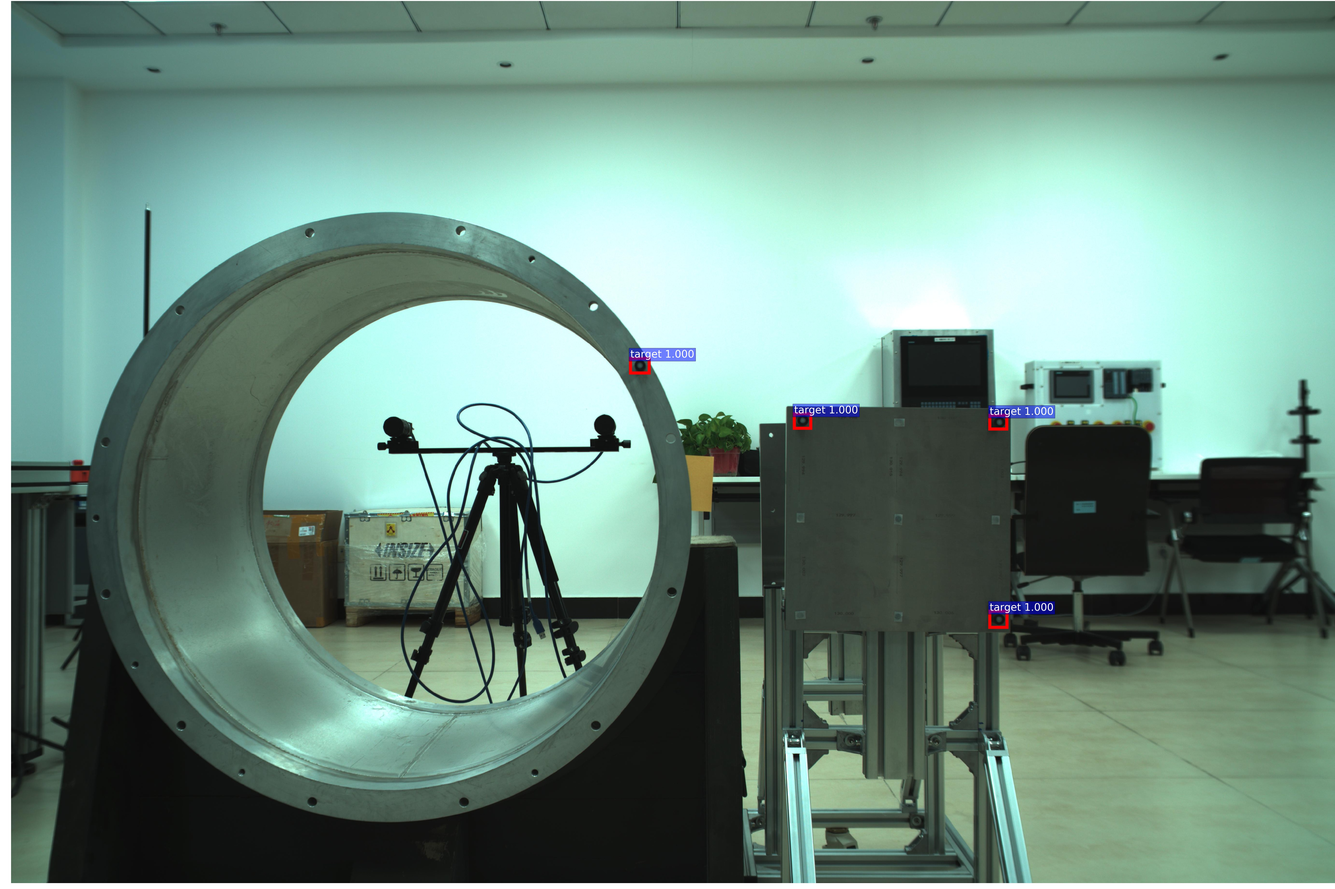
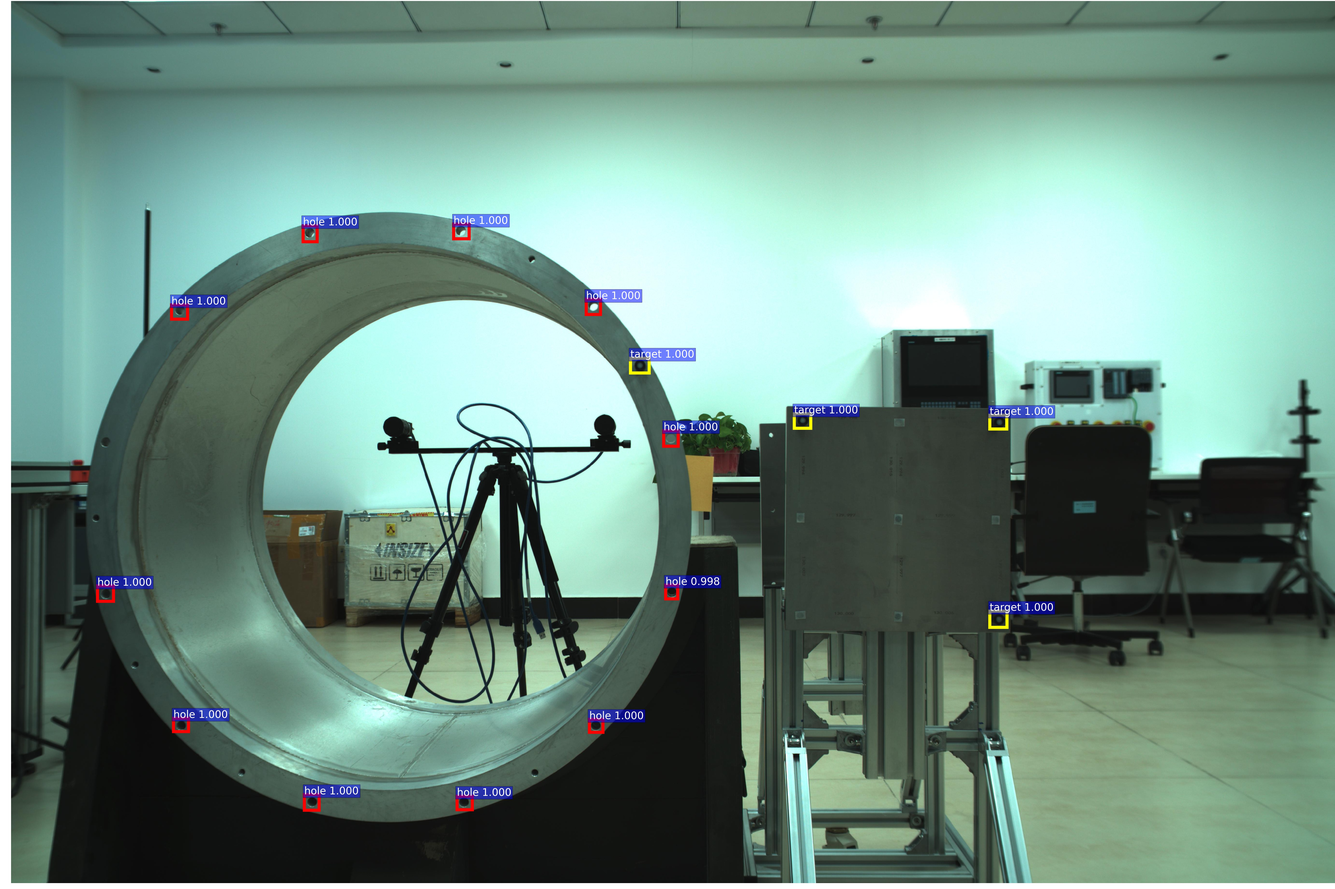
修改了图像检测显示效果，后面还需要修改位姿求解函数以达到演示效果

diff --git a/stereo_vision/testMeasure/utils.py b/stereo_vision/testMeasure/utils.py
@@ -61,6 +61,38 @@ def vis_detections(im, class_name, dets, thresh=0.5):
     #               'p({} | box) >= {:.1f}').format(class_name, class_name,
     #                                               thresh),
     #               fontsize=14)
+    # plt.axis('off')
+    # plt.tight_layout()
+    # plt.draw()
+    return coordinates_list,ax
+
+
+def vis_detections_target(ax, class_name, dets, thresh=0.5):
+    """Draw detected bounding boxes."""
+    inds = np.where(dets[:, -1] >= thresh)[0]
+    if len(inds) == 0:
+        return []
+
+    coordinates_list = list()
+    for i in inds:
+        bbox = dets[i, :4]
+        score = dets[i, -1]
+        coordinates_list.append([bbox[0],bbox[1],bbox[2]-bbox[0],bbox[3]-bbox[1]])
+        ax.add_patch(
+            plt.Rectangle((bbox[0], bbox[1]),
+                          bbox[2] - bbox[0],
+                          bbox[3] - bbox[1], fill=False,
+                          edgecolor='yellow', linewidth=9)
+            )
+        ax.text(bbox[0], bbox[1] - 2,
+                '{:s} {:.3f}'.format(class_name, score),
+                bbox=dict(facecolor='blue', alpha=0.5),
+                fontsize=30, color='white')
+
+    # ax.set_title(('{} detections with '
+    #               'p({} | box) >= {:.1f}').format(class_name, class_name,
+    #                                               thresh),
+    #               fontsize=14)
     plt.axis('off')
     plt.tight_layout()
     plt.draw()
@@ -93,7 +125,11 @@ def demo(sess, net, image_name):
                           cls_scores[:, np.newaxis])).astype(np.float32)
         keep = nms(dets, NMS_THRESH)
         dets = dets[keep, :]
-        classes_list.append(vis_detections(im, cls, dets, thresh=CONF_THRESH))
+        if cls_ind==1:
+            coordinates_list,ax = vis_detections(im, cls, dets, thresh=CONF_THRESH)
+            classes_list.append(coordinates_list)
+        else:
+            classes_list.append(vis_detections_target(ax, cls, dets, thresh=CONF_THRESH))
     return classes_list
 
 def parse_args():
